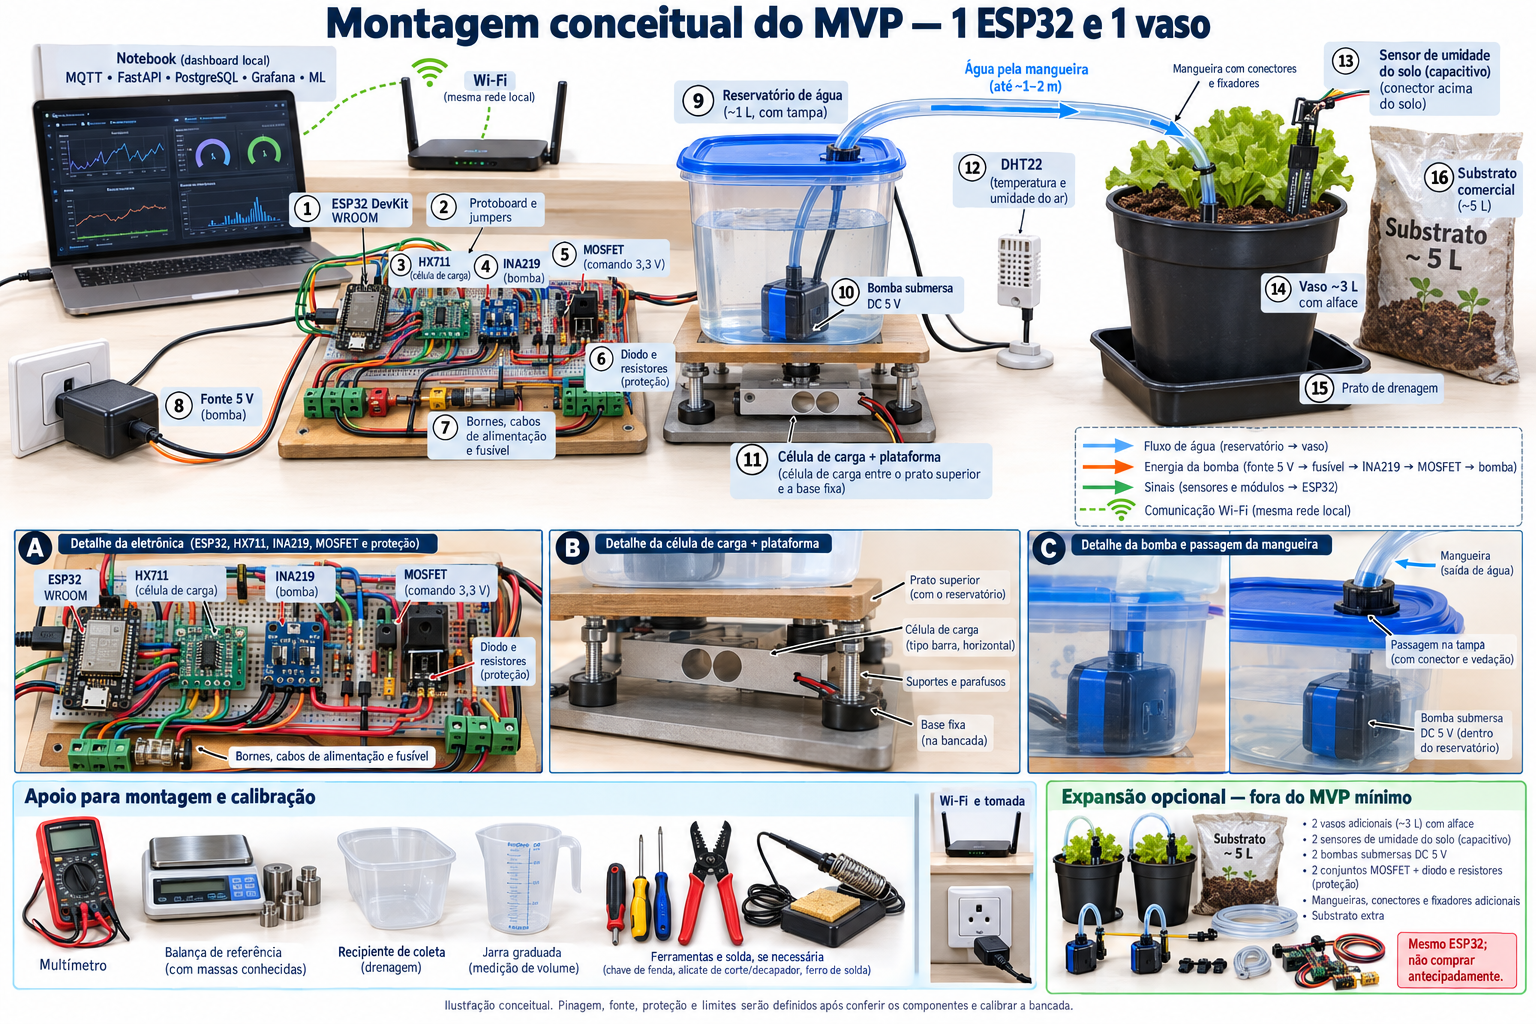
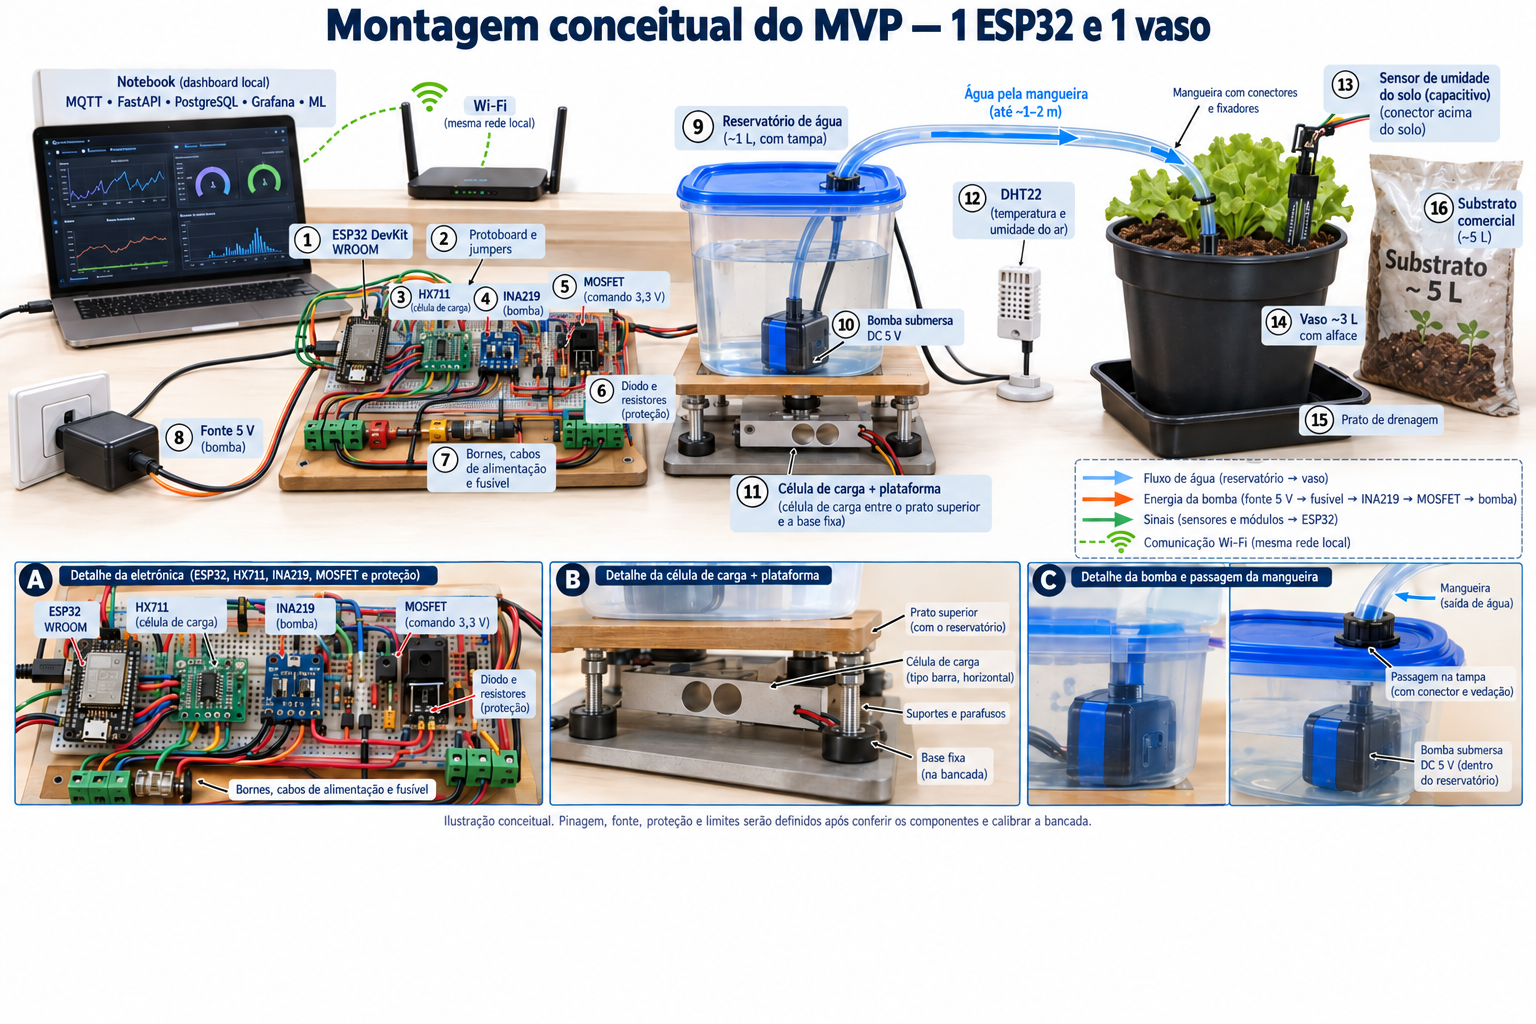
Simplifica imagem da montagem e inclui no README

diff --git a/docs/mvp.md b/docs/mvp.md
@@ -4,7 +4,7 @@
 
 ![Montagem conceitual do protótipo](imagens/montagem-conceitual-mvp.png)
 
-Imagem gerada com imagegen a partir da lista de materiais: bancada com um ESP32, um vaso, reservatório pesado, sensores, acionamento e notebook; instrumentos de apoio e expansão opcional separados. É uma visualização conceitual, não esquema elétrico ou desenho mecânico validado. Cabo USB de dados liga notebook e ESP32; conferir essa ligação na montagem. A plataforma real deve transmitir o peso pela célula, sem apoios paralelos ou tração de fios/mangueiras que desviem a carga. Pinagem e componentes de potência dependem das peças escolhidas.
+Imagem gerada com imagegen a partir da lista de materiais: bancada com um ESP32, um vaso, reservatório pesado, sensores, acionamento e notebook. É uma visualização conceitual, não esquema elétrico ou desenho mecânico validado. Cabo USB de dados liga notebook e ESP32; conferir essa ligação na montagem. A plataforma real deve transmitir o peso pela célula, sem apoios paralelos ou tração de fios/mangueiras que desviem a carga. Pinagem e componentes de potência dependem das peças escolhidas.
 
 O MVP é um protótipo de bancada com **um ESP32, um vaso e uma bomba**, conectado a uma aplicação executada em notebook. Seu objetivo é demonstrar o ciclo completo de irrigação: medir, transmitir, prever, decidir, irrigar e registrar o resultado.
 

diff --git a/README.md b/README.md
@@ -2,6 +2,10 @@
 
 Execução prática de um protótipo de baixo custo com ESP32, sensores, controle de bomba e aprendizado de máquina. Entrega em **01/12/2026**. Redação acadêmica fora do escopo.
 
+![Montagem conceitual do MVP com um ESP32 e um vaso](docs/imagens/montagem-conceitual-mvp.png)
+
+Ilustração conceitual; ligações elétricas e montagem da pesagem dependem dos componentes e da calibração.
+
 ## Documentação
 
 - [MVP](docs/mvp.md): definição, funcionamento e critérios de demonstração.
